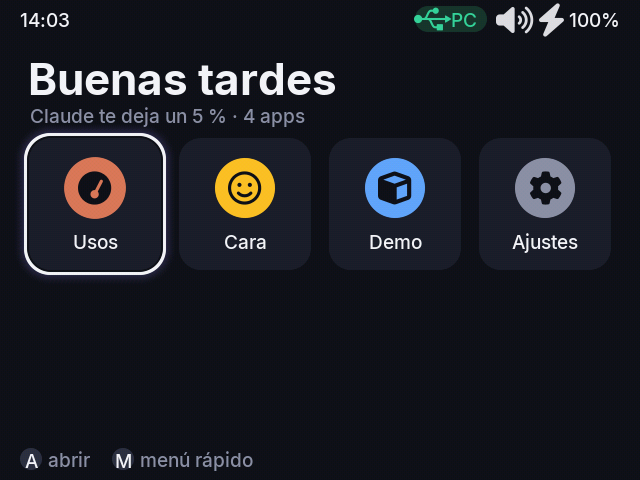
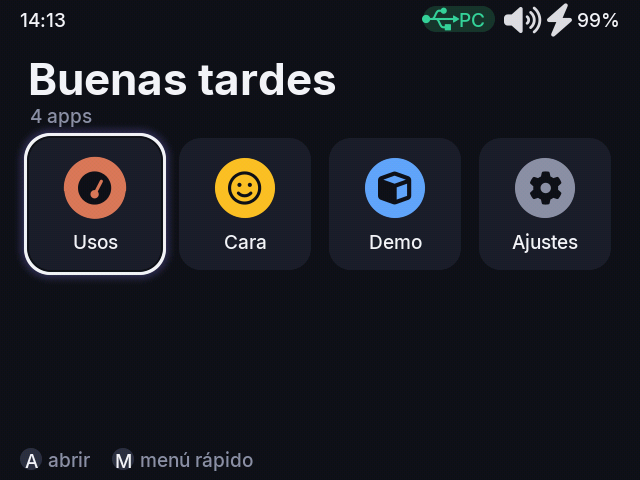
Nora pone la pantalla en RGB565 con 3 páginas al arrancar
Al encender la consola el framebuffer está en 32 bits (lo pasa a 16 el menú
de GarlicOS, que ahora arranca después de Nora). La ventana lo cambia con
FBIOPUT_VSCREENINFO en vez de rendirse.

Changed region(s): [[0.0312, 0.2188, 0.4688, 0.2812], [0.625, 0.0, 0.9375, 0.0938], [0.0625, 0.0312, 0.125, 0.0625]]

diff --git a/nucleo/ventana.c b/nucleo/ventana.c
@@ -193,8 +193,28 @@ int ventana_abrir(void)
         fprintf(stderr, "nora: sin /dev/fb0\n");
         return -1;
     }
+    /* Al encender, la pantalla esta en 32 bits (es el menu de GarlicOS el que la
+     * pasa a 16). Nora la pone en RGB565 con tres paginas: copiar cuesta la mitad. */
+    if (V.vi.bits_per_pixel != 16 || V.vi.yres_virtual < 3 * V.vi.yres) {
+        fprintf(stderr, "nora: pantalla en %d bits y %d paginas: la paso a RGB565 con 3\n",
+                V.vi.bits_per_pixel, V.vi.yres_virtual / V.vi.yres);
+        V.vi.bits_per_pixel = 16;
+        V.vi.red.offset = 11;  V.vi.red.length = 5;
+        V.vi.green.offset = 5; V.vi.green.length = 6;
+        V.vi.blue.offset = 0;  V.vi.blue.length = 5;
+        V.vi.transp.offset = 0; V.vi.transp.length = 0;
+        V.vi.xres_virtual = V.vi.xres;
+        V.vi.yres_virtual = 3 * V.vi.yres;
+        V.vi.xoffset = V.vi.yoffset = 0;
+        V.vi.activate = FB_ACTIVATE_NOW;
+        if (ioctl(V.fb, FBIOPUT_VSCREENINFO, &V.vi) || ioctl(V.fb, FBIOGET_VSCREENINFO, &V.vi) ||
+            ioctl(V.fb, FBIOGET_FSCREENINFO, &V.fi)) {
+            fprintf(stderr, "nora: no puedo cambiar el modo de la pantalla\n");
+            return -1;
+        }
+    }
     if (V.vi.bits_per_pixel != 16) {
-        fprintf(stderr, "nora: la pantalla no esta en 16 bits (%d)\n", V.vi.bits_per_pixel);
+        fprintf(stderr, "nora: la pantalla sigue en %d bits\n", V.vi.bits_per_pixel);
         return -1;
     }
     V.W = V.vi.xres;
